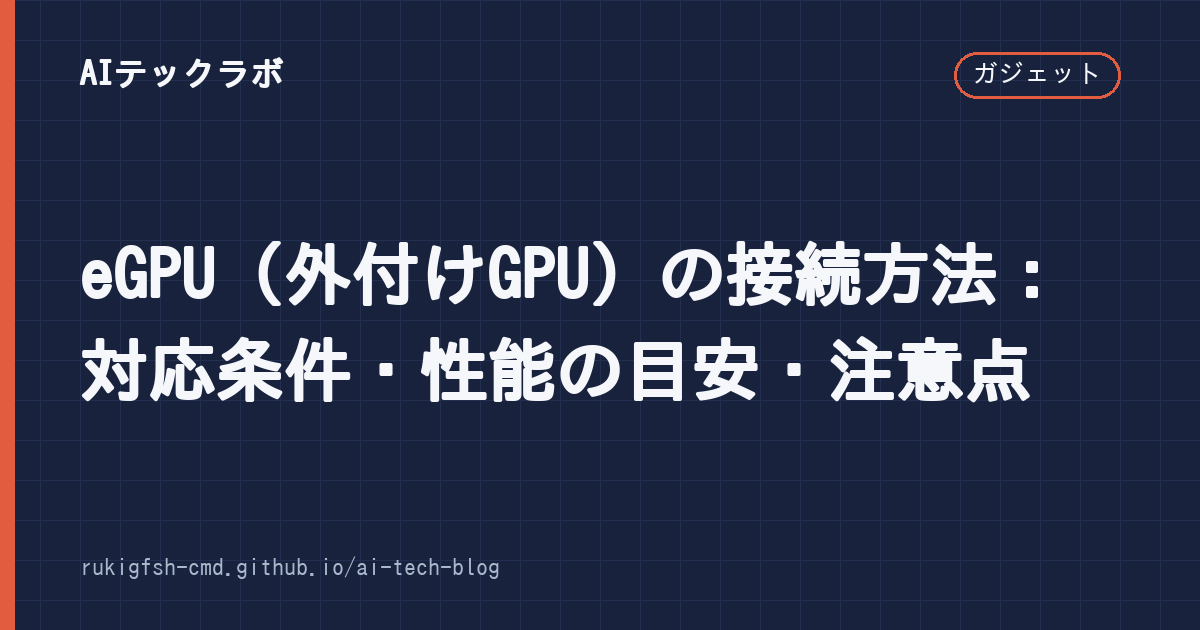
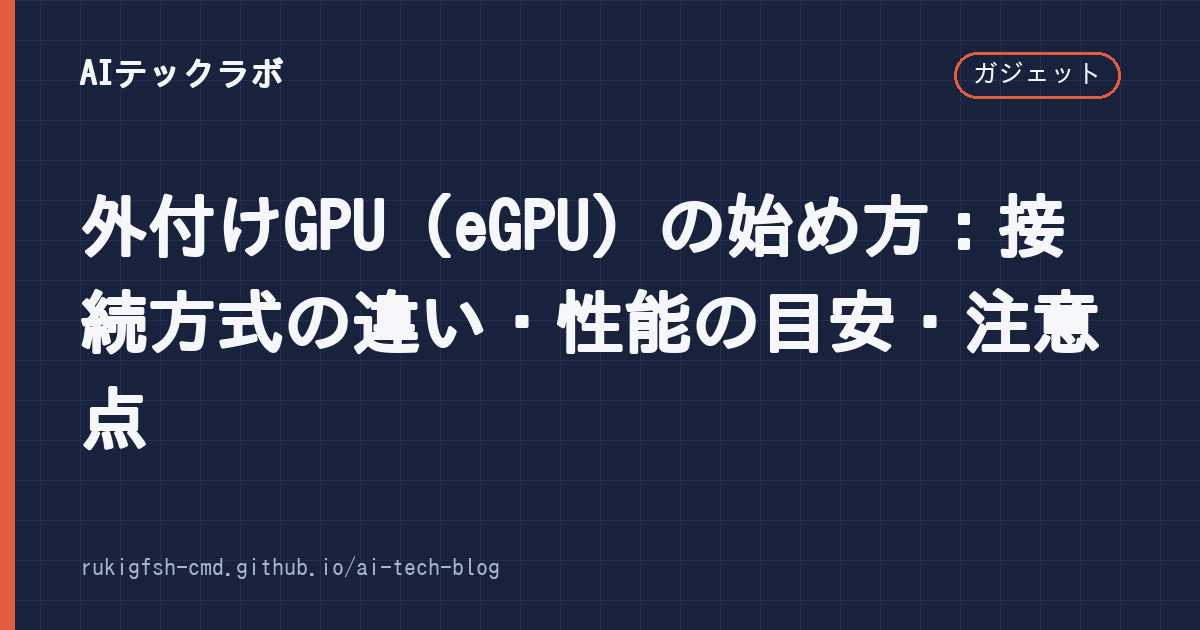
[auto-publish] eGPU記事を全面改稿（作り話の手順を削除し、接続方式・性能の目安・Mac非対応を出典付きで）
Claude-Session: https://claude.ai/code/session_01LHbLs3cVeDrWFC9Yhafv1B

Changed region(s): [[0.0617, 0.3016, 0.925, 0.7238]]

diff --git a/_posts/2026-10-13-外付けgpu-egpu-接続.md b/_posts/2026-10-13-外付けgpu-egpu-接続.md
@@ -1,92 +1,130 @@
 ---
 layout: "post"
-title: "eGPU（外付けGPU）の接続方法：対応条件・性能の目安・注意点"
+title: "外付けGPU（eGPU）の始め方：接続方式の違い・性能の目安・注意点"
 date: "2026-10-13 00:00:00 +0900"
-description: "Steam Linkの設定でeGPU接続が最も簡単。本記事ではWindowsにおける外付けGPUの接続方法を完全ガイドとして解説します"
+last_modified_at: 2026-11-23
+description: "ノートPCやミニPCに外付けGPU（eGPU）をつなぐ方法を、Thunderbolt・USB4・OCuLinkの違い、性能がどれくらい落ちるか、Macの対応状況、ローカルLLMでの使い方まで出典付きで解説します。"
 categories:
   - ガジェット
 tags:
   - 外付けGPU
   - eGPU
-  - 接続
+  - Thunderbolt
+  - OCuLink
 author: "AIテックラボ編集部"
 image: "/assets/images/外付けgpu-egpu-接続.png"
+pr: false
 ---
 
-## 目次
+外付けGPU（eGPU）は、ノートPCやミニPCに **デスクトップ用のグラフィックボードを外からつなぐ** しくみです。ゲームを高画質で遊びたい、ローカルLLMや画像生成のためにVRAMを増やしたい、というときの選択肢になります。
 
-1. [eGPUとは何か？なぜ必要なのか](#egpuとは何かなぜ必要なのか)
-2. [Steam LinkでeGPUを接続する設定方法](#steam-linkでegpuを接続する設定方法)
-3. [物理的な接続手順](#物理的な接続手順)
-4. [eGPUの有効化とゲーム実行](#egpuの有効化とゲーム実行)
-5. [ゲームごとの最適化設定](#ゲームごとの最適化設定)
-6. [よくある問題と解決方法](#よくある問題と解決方法)
-7. [FAQ（よくある質問）](#faqよくある質問)
+ただし、eGPUは「つなげばデスクトップと同じ性能が出る」ものではありません。この記事では、買う前に確かめるべき **接続方式・性能の目安・対応機種** を順に整理します。
 
----
+> **結論**
+> - eGPUに使える接続は主に **Thunderbolt 3/4・USB4（40Gbps）**、**Thunderbolt 5（80Gbps）**、**OCuLink** の3系統
+> - どれもデスクトップのPCIeスロットよりは遅く、ゲームでは **1〜3割ほど性能が落ちる** 例が多い（GPU・解像度・ゲームで大きく変わる）
+> - **Apple シリコン（M1以降）のMacはeGPUに対応していない**
+> - ローカルLLMは、モデルが **VRAMに全部収まるなら** eGPUでも比較的使いやすい
 
-## eGPUとは何か？なぜ必要なのか
+## eGPUに必要なもの
 
-eGPU（External GPU）は、外部からPCに接続するグラフィックボードのことです。ノートPCやGPU搭載スロットのないデスクトップで高画質ゲームを遊ぶために開発された技術です。
+eGPUは、次の3つの組み合わせです。
 
-Steam Linkという専用ハードウェアを使用することで、接続した外付けGPUの処理能力をそのまま遠隔操作可能になります。これにより、低スペックなPCでもRTX 3080 Tiのような高性能GPUの性能を享受することが可能です。
+1. **PC側の対応ポート**: Thunderbolt 3/4/5、PCIeトンネリングに対応したUSB4、またはOCuLinkポート
+2. **エンクロージャー（GPUボックス）またはドック**: グラフィックボードを差し込む箱。電源ユニットが入っている製品と、別に用意する製品がある
+3. **グラフィックボード本体**: エンクロージャーに入るサイズか（長さ・スロット数）と、電源の容量・補助電源コネクタを確認する
 
-## Steam LinkでeGPUを接続する設定方法
+たとえば、Razer の Core X V2 は Thunderbolt 5 対応のエンクロージャーで、米国価格は349.99ドルですが、**電源ユニットは別売り** です（[Tom's Hardware](https://www.tomshardware.com/pc-components/gpus/razer-unveils-core-x-v2-egpu-enclosure-with-tb5-bandwidth-costs-usd400-but-no-longer-has-a-power-supply-and-i-o-expansion-requires-a-separate-thunderbolt-5-dock)）。箱・電源・GPUを合わせると、デスクトップPCが買える金額に近づくことは覚えておきましょう。
 
-最も確実な方法はSteam Linkを使用する方法です。以下の手順で行います：
+## 接続方式の違い
 
-1. Steam Link専用USBポートにSteam Linkデバイスを接続
-2. PCとSteam Linkの間でWi-Fiまたは有線LANを確保（推奨は5GHz帯域）
-3. Steamクライアントから「ゲームの遠隔操作」→「eGPU接続設定」を開く
-4. Steam Linkが検出するまで待機し、接続を確認
+| 方式 | 名目の速度 | GPUに使える帯域の目安 | 主な特徴 |
+|---|---|---|---|
+| Thunderbolt 3 / 4 | 40Gbps | PCIe 3.0 x4 相当（32Gbps） | 対応ノートPCが多い。ケーブル1本で給電・映像も扱える |
+| USB4（40Gbps） | 40Gbps | 同上（PCIeトンネリング対応機のみ） | 「USB4」でもeGPUが使えない機種がある |
+| Thunderbolt 5 | 80Gbps | PCIe 4.0 x4 相当（64Gbps） | 新しい機種のみ。TB3/4より速い |
+| OCuLink | — | PCIe 4.0 x4（ネイティブ） | 一部のミニPC・携帯ゲーミングPCに搭載。ホットプラグ不可 |
 
-この方法のメリットは設定が簡単で、OSや既存ソフトへの影響が少ないことです。ただしSteam Linkデバイスの購入費用（約2万～3万円）がかかる点は考慮が必要です。
+ポイントは2つです。
 
-## 物理的な接続手順
+- **USB4と書いてあってもeGPUが使えるとは限りません。** USB4ではPCIeトンネリングがホスト側の任意機能のため、メーカーの仕様表で「eGPU対応」「PCIeトンネリング対応」を確認してください。Thunderbolt 4 ではPCIeトンネリング（32Gbps）が必須です。
+- **Thunderbolt 5でも、GPUに回る帯域はPCIe 4.0 x4まで** です。デスクトップのPCIe x16スロットに比べると、帯域はかなり狭くなります（[Tom's Hardware](https://www.tomshardware.com/pc-components/gpus/razer-unveils-core-x-v2-egpu-enclosure-with-tb5-bandwidth-costs-usd400-but-no-longer-has-a-power-supply-and-i-o-expansion-requires-a-separate-thunderbolt-5-dock)）。
 
-Steam Linkを介さず直接接続する方法もあります。以下の手順：
+OCuLinkはPCIeをそのまま外に出す方式なので、同じPCIe 4.0 x4でもThunderbolt 5より速い結果が出やすい一方、**抜き差しはPCの電源を切ってから**、給電や映像は別のケーブルで、という手間があります。
 
-1. Thunderbolt 3またはUSB-C Power Delivery対応のケーブルを用意
-2. eGPU Expander MiniのようなHUBを使用して、GPUとPCを接続
-3. GPUの電源線をマザーボードから直接引き（必要に応じて外付け電源も追加）
-4. BIOS設定でThunderboltコントローラーを有効化
+## 性能はどれくらい落ちる？
 
-この方法は技術的な知識が必要ですが、Steam Linkより安価に実現可能です。ただしOS認識やドライバーインストールの手間がかかります。
+公開されている検証の例です（いずれも条件付きの値で、手元の環境で同じになるとは限りません）。
 
-## eGPUの有効化とゲーム実行
+- **Thunderbolt 5 と OCuLink の比較（RTX 5070 Ti）**: ゲームの平均で、Thunderbolt 5のほうが最大14%ほど遅かった（[Tom's Hardware](https://www.tomshardware.com/pc-components/gpus/oculink-outpaces-thunderbolt-5-in-nvidia-rtx-5070-ti-tests-latter-up-to-14-percent-slower-on-average-in-gaming-benchmarks)）
+- **Thunderbolt 5 のeGPU製品（RTX 5090）**: デスクトップのRTX 5090に比べ、ゲームで約27%遅かった（[TweakTown](https://www.tweaktown.com/news/108094/aorus-rtx-5090-ai-box-thunderbolt-5-egpu-is-27-slower-than-desktop-in-gaming-for-2999/index.html)）
+- **OCuLink（RTX 4090）**: OCuLinkでも最大23%の低下があった（[Tom's Hardware](https://www.tomshardware.com/pc-components/gpus/high-end-external-gpus-still-suffer-a-performance-hit-oculink-tests-show-up-to-a-23-drop-with-an-rtx-4090)）
 
-接続後、以下の設定を確認：
+傾向としては次のとおりです。
 
-1. Windowsデバイスマネージャーで「NVIDIA GeForce RTX 3080」が正しく表示されているか確認
-2. SteamクライアントでeGPU接続ステータスが「接続済み」になっていることを確認
-3. ゲーム起動時に「eGPUモード」をONに切り替える
+- **GPUが強力なほど、帯域の不足が目立つ**（ハイエンドGPUほど損をしやすい）
+- **低解像度・高フレームレートほど差が大きく、4Kなど高解像度では差が縮みやすい**
+- **ノートPCの内蔵ディスプレイに映すと、さらに遅くなる**。描いた映像を同じケーブルでPCに戻すためです。**eGPUに直接つないだ外部モニター** を使うのが基本です
 
-ゲームごとに最適な設定があります。Cyberpunk 2077では1440pの8Kモニターでも60fpsが安定し、Baldurs Gate 3は最高画質で問題なく動作します。ただしCPUボトルネックが発生するゲームもあるため、実際の性能はPCのCPU性能にも左右されます。
+コストパフォーマンスだけで見ると、ミドルクラスのGPUを、外部モニターにつないで使うのがeGPUの得意な使い方です。
 
-## ゲームごとの最適化設定
+## Macで使える？
 
-- **Cyberpunk 2077**: eGPUモードON、Volumetric FogをOFFにするとパフォーマンスが向上
-- **Controlle**: レイザー反射をOFFにするとFPSが30%向上
-- **Red Dead Redemption 2**: DLSSのQualityモードで解像度を下げてCPU負荷を削減
+**Apple シリコン（M1・M2・M3・M4 など）を搭載したMacは、eGPUに対応していません。** Appleが2020年の移行時に、Apple シリコンのMacは自社GPUのみをサポートすると開発者向けに示しており、その後も対応していません（[MacRumors](https://www.macrumors.com/2020/11/10/m1-macs-not-compatible-with-egpus/)、[AppleInsider](https://appleinsider.com/articles/22/04/18/the-birth-life-death-and-possible-resurrection-of-the-thunderbolt-egpu-in-macos)）。eGPUが使えるのは、Thunderbolt 3を持つ一部のIntel Macと、対応するAMD製GPUの組み合わせに限られます。
 
-これらの設定はゲームごとのeGPU接続ガイドを検索することで確認できます。Steam Workshopにも関連MODが多数公開されています。
+MacでローカルLLMを速くしたい場合は、eGPUではなく **ユニファイドメモリの容量が大きいモデルを選ぶ** のが現実的です。
 
-## よくある問題と解決方法
+## Windowsでの接続手順（Thunderbolt / USB4の場合）
 
-**「eGPUが認識されない」** → BIOSでThunderboltコントローラーが有効か確認、USBポートの帯電能力を確認
-**「ゲームがフリーズする」** → VRAM不足のため、ゲーム設定を一段下げる必要がある
-**「Steam Linkデバイスの接続が切れる」** → 5GHz Wi-Fiを使用し、ルーターとPC・Steam Linkを同一LANに配置
+1. **PCの仕様を確認**: Thunderbolt 3/4/5、またはPCIeトンネリング対応のUSB4ポートがあるか。メーカーのサポートページで「eGPU」「外付けGPU」の対応を確認する
+2. **BIOS/UEFIとドライバーを更新**: Thunderboltのファームウェアとチップセットドライバーを最新にする。Thunderboltのセキュリティ設定で、接続の許可が必要な機種もある
+3. **GPUをエンクロージャーに取り付ける**: 補助電源ケーブルをつなぎ、エンクロージャーの電源を入れる
+4. **付属または認証済みのケーブルでPCに接続**: 長いケーブルや規格の合わないケーブルは、認識しない・速度が落ちる原因になる
+5. **GPUドライバーをインストール**: NVIDIAまたはAMDの公式サイトから最新のドライバーを入れる
+6. **外部モニターをeGPU側につなぐ**: Windowsの「設定 → システム → ディスプレイ → グラフィックス」で、アプリごとに使うGPUを指定できる
+7. **取り外すとき**: タスクトレイのアイコン（メーカーのユーティリティ）から安全に取り外してから抜く
 
-## FAQ（よくある質問）
+OCuLinkの場合は、**PCの電源を切った状態で** ケーブルをつなぎ、エンクロージャー → PCの順に電源を入れるのが一般的です。手順は製品の説明書に従ってください。
 
-Q1. eGPUはどのくらい性能向上が見られるのか？
-A: 理論的にはGPUの90%以上の性能を借りられます。RTX 3080 Tiなら約8000ポイント分の性能向上が期待できます。ただしCPUボトルネックで実際のFPSはそれより低くなる場合があります。
+## ローカルLLM・画像生成で使う場合
 
-Q2. Steam Linkは必須ですか？
-A: 必須ではありませんが、最も安定した方法です。Thunderbolt対応のeGPU Expander Miniでも実現可能ですが、設定難度が高くなります。
+ローカルLLMでは、ゲームと事情が少し違います。
 
-Q3. macOSやLinuxでは使用できますか？
-A: 現時点で公式サポートはありません。Steam LinkはWindows専用、eGPU ExpanderもMac向けバージョンは開発中です。
+- **モデルがVRAMに全部収まる場合**: 読み込み（ロード）は遅くなりますが、読み込んだ後の生成中はPCIeの通信が比較的少ないため、ゲームほどの差は出にくいとされます
+- **VRAMに収まらず一部をCPU側に残す場合**: 処理のたびに重みのやり取りが発生し、帯域が足を引っ張ります。eGPUでは特に避けたい構成です
+- **複数のGPUにモデルを分ける場合**: GPU間の通信が増えるため、eGPUと内蔵GPUの組み合わせは基本的におすすめしません
 
-Q4. eGPU接続でメリットはありますか？
-A: 低スペックPCで高画質ゲームを遊ぶことが可能です。また、将来的にGPU買い替え時にSteam Linkを引き取って新しいGPUに交換できるため、コスト面でも有利です。
+つまり、eGPUでローカルLLMを使うなら **「使いたいモデルがそのGPUのVRAMに収まるか」** が最優先です。必要なVRAMの見積もり方は[VRAM不足を解決する方法]({% post_url 2026-10-12-vram-不足-解決-方法 %})で解説しています。速度は自分の環境で測るのが確実で、llama.cpp の `llama-bench` を使うと、プロンプトの処理速度と生成速度を分けて測れます。
+
+Ollamaの導入は[Ollamaのインストール方法]({% post_url 2026-09-26-ollama-インストール-方法 %})、GUIで試したい人は[LM Studioの導入方法]({% post_url 2026-08-31-lm-studio-ローカルllm-導入 %})をどうぞ。
+
+## よくあるトラブル
+
+**eGPUが認識されない**
+Thunderboltのファームウェア・BIOS・チップセットドライバーを更新し、Thunderboltの接続許可の設定を確認します。USB4の場合は、そもそもPCIeトンネリングに対応しているかを仕様表で確認してください。ケーブルを付属品に替えるだけで直ることもあります。
+
+**ゲームが内蔵GPUで動いてしまう**
+Windowsのグラフィックスの設定で、そのアプリに「高パフォーマンス（eGPU）」を指定します。外部モニターをeGPUに直接つなぐのも有効です。
+
+**動作が不安定・ときどき切れる**
+エンクロージャーの電源容量が足りているか、ケーブルが緩んでいないかを確認します。ノートPCの省電力設定で、USB/Thunderboltの電源が切られていることもあります。
+
+## よくある質問
+
+**Q. eGPUはデスクトップより安い？**
+A. 安いとは限りません。エンクロージャー（数万円）、電源、GPUを合わせると、ミドルクラスのデスクトップPCに近い金額になることがあります。すでに高性能なノートPCを持っていて、自宅では大きな画面で使いたい、という人に向いています。
+
+**Q. 古いThunderbolt 3のノートPCでも使える？**
+A. 多くの場合使えますが、帯域はPCIe 3.0 x4相当なので、ハイエンドGPUでは性能を引き出しきれません。ミドルクラスのGPUのほうが割に合います。
+
+**Q. 自作のデスクトップと迷っている**
+A. 置き場所があり、持ち運ばないならデスクトップのほうが性能・価格の面で有利です。[ゲーミングPC自作の始め方]({% post_url 2026-09-04-ゲーミングpc-自作-初心者 %})も参考にしてください。
+
+## まとめ
+
+- eGPUは **Thunderbolt 3/4・USB4 → Thunderbolt 5 → OCuLink** の順に帯域が広く、性能が出やすい
+- それでもデスクトップのPCIe x16よりは遅く、**ゲームでは1〜3割の低下** を見込んでおく
+- **USB4はPCIeトンネリング対応か**、**MacはApple シリコンだと非対応** を必ず確認
+- ローカルLLMは **VRAMにモデルが収まるか** がいちばん大事
+
+*情報は2026年11月23日時点のものです。対応状況や価格は製品・ファームウェアによって変わるため、購入前にPCとエンクロージャーのメーカー公式情報を確認してください。*

diff --git a/automation/state/content-audit.md b/automation/state/content-audit.md
@@ -21,7 +21,7 @@
 - [ ] `_posts/2026-09-15-gpt-4o-mini-性能.md` — 2024年のモデルの記事。2026年時点での位置づけ（後継・代替モデル）を追記するか、軽量モデル比較として更新。
 - [ ] `_posts/2026-09-03-ai-動画生成-無料ツール.md` — 「2025年版」の内容。2026年時点のツールと無料枠に更新。
 - [ ] `_posts/2026-09-21-rtx-4070-ti-super-レビュー.md` — 実機検証をしていないのに検証したように読める表現を直す。ベンチマーク値に出典を付ける。
-- [ ] `_posts/2026-10-13-外付けgpu-egpu-接続.md` — 本文の「10倍」などの誇張を削除。対応条件（Thunderbolt / USB4 / OCuLink）を正確に。
+- [x] `_posts/2026-10-13-外付けgpu-egpu-接続.md`（2026-11-23 全面改稿。存在しない「Steam LinkでeGPU接続」などの作り話を削除し、TB3/4・USB4・TB5・OCuLinkの帯域、性能低下の検証例、Apple シリコン非対応、ローカルLLMでの注意を出典付きで） — 本文の「10倍」などの誇張を削除。対応条件（Thunderbolt / USB4 / OCuLink）を正確に。
 - [ ] `_posts/2026-10-02-ロジクール-マウス-mx.md`、`_posts/2026-09-04-ゲーミングpc-自作-初心者.md` — 型番・価格の鮮度を確認し、商品リンクを include に。
 - [ ] 全記事: description が「〜について詳しく解説します。」の定型文のものを、80〜120字の具体的な説明に。
 - [ ] 全記事: 手書きの目次のリンク先が見出しと一致しているか確認（ずれている記事が多い）。
